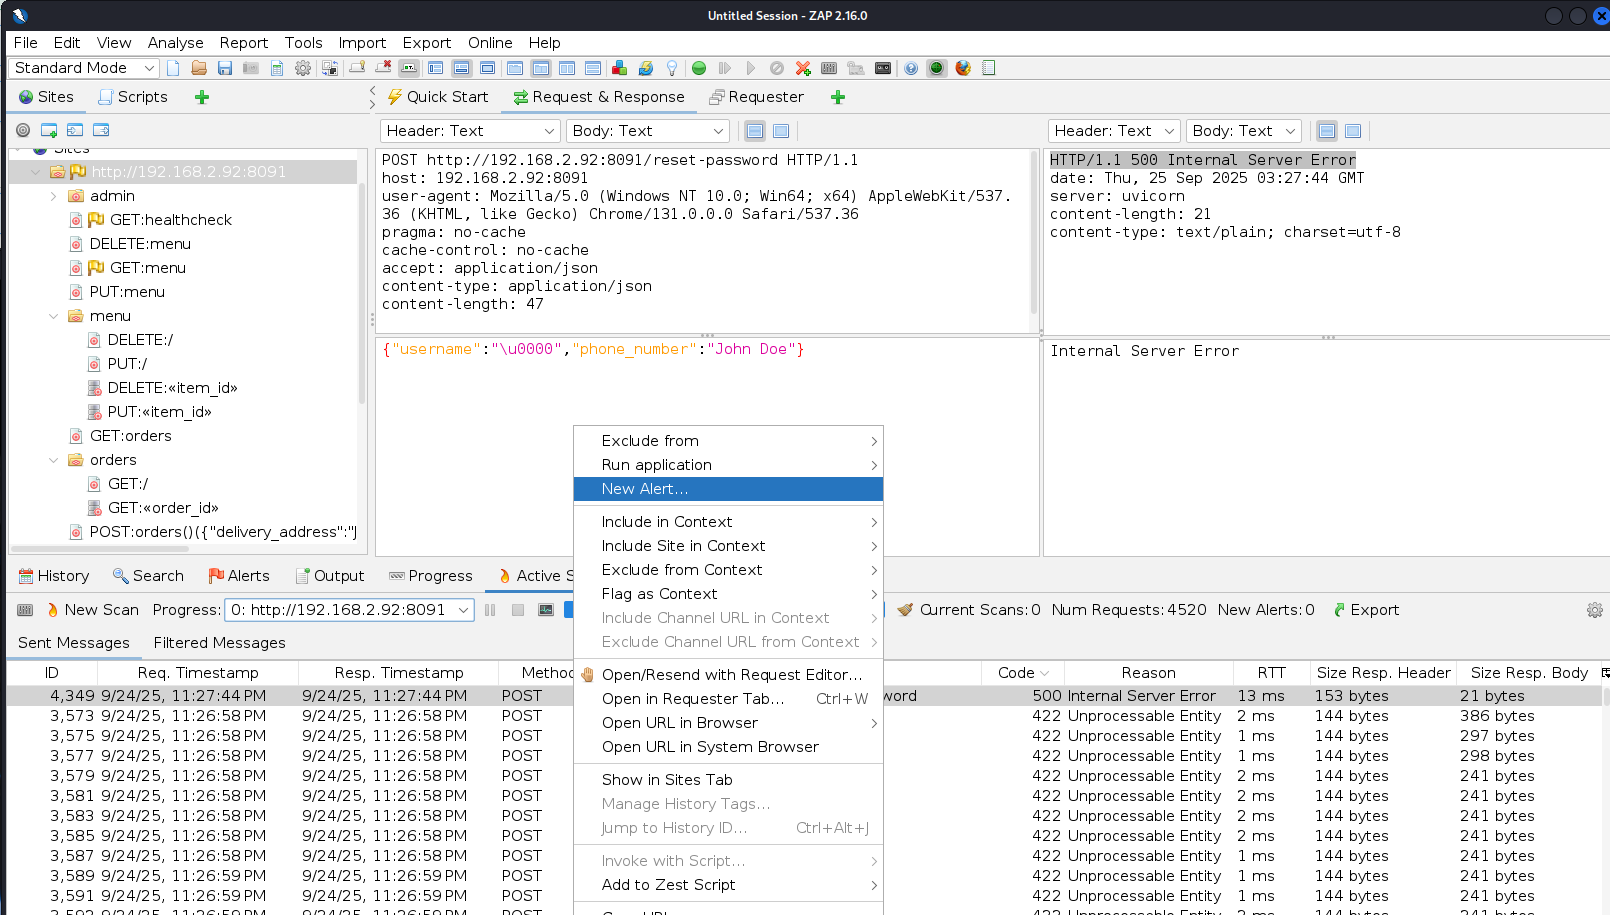
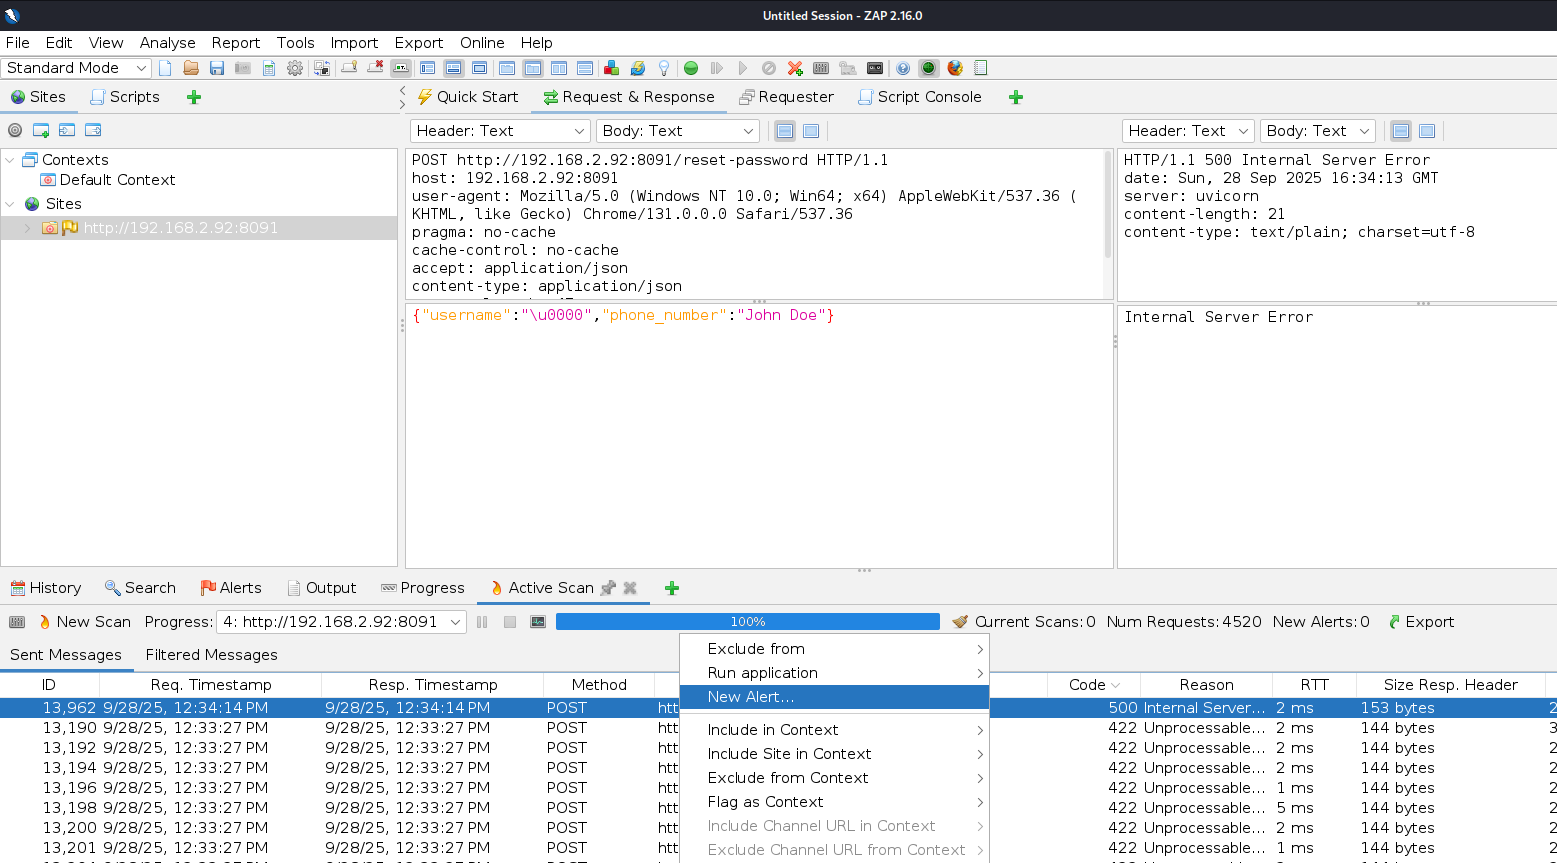
fix: se añade el guardado del registro del primer escaneo activo.

Changed region(s): [[0.0, 0.0, 1.0, 1.0], [0.4316, 0.0, 0.5857, 0.0301], [0.9865, 0.0, 1.0, 0.0301]]

diff --git a/trabajo-final-master/trabajo-final-master.md b/trabajo-final-master/trabajo-final-master.md
@@ -322,7 +322,17 @@ La cobertura (scope) del escaneo quedará entonces en el contexto por defecto, y
 
 #### 2.4.5.2. PRIMER ESCANEO ACTIVO
 
-Una vez hecho esto, ya el programa estará preparado para el escaneo como se desea. A continuación, se muestran dos resúmenes gráficos del escaneo activo:
+Una vez hecho esto, ya el programa estará preparado para el escaneo como se desea. 
+
+**NOTA: Antes de darle "Start Scan" hay que tener una consideración y es el monitor del progreso. Apenas se haga clic, inmediatamente deberá ir al monitor (al parar el cursor encima del siguiente ícono, paraece "Show sacn progress details") y a la pestaña "Response Chart". Si no hace esto, no podrá ver la gráfica completa de lo monitorizado. En breve se explicará esto. Esto parece ser un error del programa, y se podría esperar que la tengan en cuenta para una actualización pronta.**
+
+![](./recursos/2/8-9-0-1.png)
+
+![](./recursos/2/8-9-0-2.png)
+
+
+
+A continuación, se muestran dos resúmenes gráficos del escaneo activo:
 
 ![](./recursos/2/8-9-1.png)
 
@@ -343,7 +353,21 @@ Para el caso de las 5xx, es para ver si existe la posibilidad de que haya una vu
 
 Solo hubo una petición, y no se le ha inyectado ninguna carga paga que implique una inyección de comandos, ni de SQL. Solo parece que no pudo manejar el valor "\u0000" en username, que sería una nota a tener en cuenta para que se mejore la presentación de la API. Se emitirá una alerta de información para que cuando se genere el reporte, aparezca.
 
-#### 2.4.5.3. CREACIÓN DE ALERTA MANUAL
+#### 2.4.5.3. GUARDADO DEL RESULTADO DEL ESCANEO ACTIVO
+
+Es importante guardar los resultados del escaneo activo, ya que, incluso con persistencia de sesión, no quedarían guardados. Esto podría servir para el análisis futuro de datos que no se alcanzaron a analizar, o por si se pueden analizar con otro programa especializado o que el auditor tenga desarrollado para dicho propósito.
+
+Para guardar el registro de la gráfica de respuestas "Response Chart":
+
+![](./recursos/2/8-11-1.png)
+
+![](./recursos/2/8-11-2.png)
+
+Para guardar el registro del progreso (Scan Progress). Esto se guardará en un archivo separado por tabulaciones:
+
+![](./recursos/2/8-11-3.png)
+
+#### 2.4.5.4. CREACIÓN DE ALERTA MANUAL
 
 
 En el punto anterior se evidenció un error interno en el servidor porque no fue capaz de manejar correctamente un campo en la api que permite reiniciar la contraseña. Para la generación de una alerta, se siguen los siguientes pasos:
@@ -692,7 +716,9 @@ En los vectores de entrada, se añadirán los de URL Path y HTTP Headers, a toda
 
 ![](./recursos/2/21-4.png)
 
-En las políticas, se usará "API".
+En las políticas, se usará "API". Enseguida se inicia el escaneo.
+
+**NOTA: no olvidar abrir el monitor del progreso.**
 
 ![](./recursos/2/21-5.png)
 
